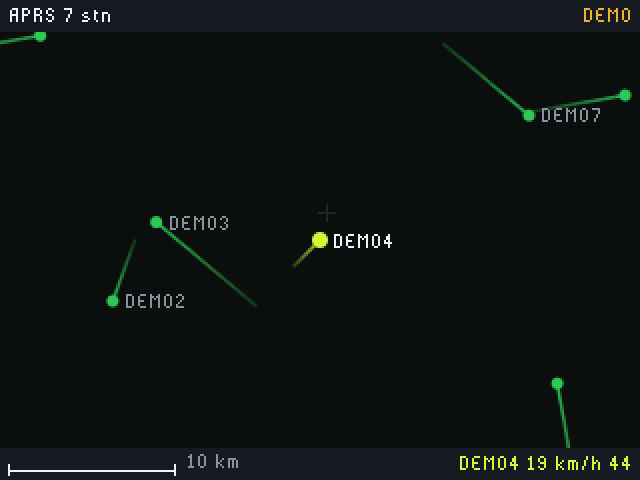
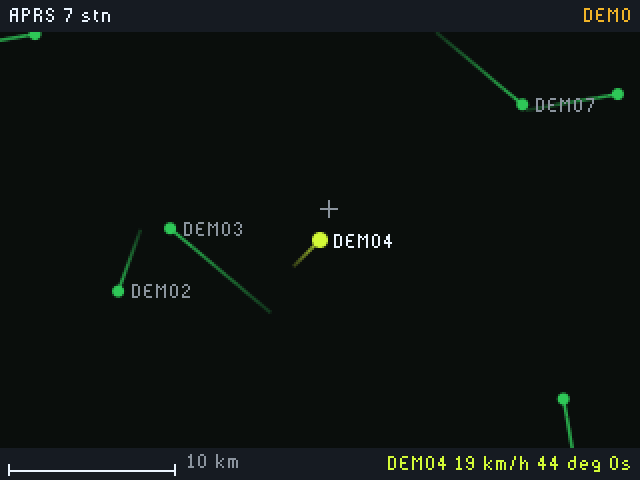
README: refresh screenshots and status after app reviews

diff --git a/README.md b/README.md
@@ -9,17 +9,17 @@ None of this has run on a real badge yet. Everything below passes static checks 
 | App | What it does | Needs network | Status |
 | --- | --- | --- | --- |
 | [`tilt_maze`](badge/apps/tilt_maze/) | Roll a marble through a random maze with the accelerometer. 4 sizes, best times saved. | no | maze generator tested on host, tilt axes unconfirmed |
-| [`ir_tag`](badge/apps/ir_tag/) | Fire IR shots at other badges. A hit badge sends a confirmation back. | no | IR send API is a guess |
+| [`ir_tag`](badge/apps/ir_tag/) | Fire IR shots at other badges. A hit badge sends a confirmation back. | no | sender call fixed to the real `aye_arr` API, untested |
 | [`gh_dash`](badge/apps/gh_dash/) | Review requests, open PRs, assigned issues, latest CI result for up to 3 repos. | Wi-Fi + GitHub token | demo mode works, live calls untested |
 | [`aprs_map`](badge/apps/aprs_map/) | Live map of APRS stations near a place you choose, with fading trails. Receive only. | Wi-Fi | parser tested on host and against the live feed |
 | [`overhead`](badge/apps/overhead/) | Aircraft near you: callsign, type, altitude, speed, origin and destination, arriving or departing. List and radar views. | Wi-Fi | parser tested on saved real responses |
-| [`meshcore_feed`](badge/apps/meshcore_feed/) | MeshCore messages and contacts from your own BLE companion node. | BLE | prototype, about 25% odds the badge can pair |
+| [`meshcore_feed`](badge/apps/meshcore_feed/) | MeshCore messages and contacts from your own BLE companion node. | BLE | prototype, about 3% odds live mode can pair, demo mode works |
 
 `validate_app.py` and the README check pass for all six. The `editor/` folder holds single-file copies you can paste into the [browser editor](https://badger.github.io/editor) plus host-side tests. In the simulator the accelerometer is a stub (use the d-pad for `tilt_maze`), and there is no IR, network or BLE, so the other apps run on demo data.
 
 ## Screenshots
 
-Captured from the [badge simulator](https://badger.github.io/editor) running each app in headless Chrome, not from a real badge. Frames are the simulator's screen, doubled in size. The simulator has no real accelerometer, IR, sockets or network, so `tilt_maze` was rolled with the d-pad, `ir_tag` shows its simulator controls, and `aprs_map`, `gh_dash` and `overhead` show demo data (the `overhead` captures use `PLANES_DEMO`). `meshcore_feed` is its demo mode.
+Captured from the [badge simulator](https://badger.github.io/editor) running each app in headless Chrome, not from a real badge. Frames are the simulator's screen, doubled in size. The simulator has no real accelerometer, IR, sockets or network, so `tilt_maze` was rolled with the d-pad, `ir_tag` shows its simulator controls, and `aprs_map`, `gh_dash` and `overhead` show demo data (the `overhead` captures use `PLANES_DEMO`). `meshcore_feed` is its demo mode, and the captured start screen shows the warning that live mode probably fails.
 
 **tilt_maze**: start, then rolling toward the gold tile
 
@@ -83,16 +83,16 @@ Wi-Fi and your GitHub username can be set in the badge's Settings app. Everythin
 
 ## Things I'm checking on hardware
 
-- **IR send API.** The repo only shows the receiver. `ir_tag` assumes `NECSender(16, 1)` with `send_addr_cmd(addr, cmd)`, copied from the 2025 beacon code. Check with `import aye_arr.nec as n; print(dir(n))`. Without a working sender the app runs receive only and says so.
+- **IR library version.** `ir_tag` uses the real [`pimoroni/aye_arr`](https://github.com/pimoroni/aye_arr) API (`NECSender(pin, pio, sm)` then `.start()`, receiver via `NECRemoteReceiver` or `NECReceiver`), checked against its source but not on a badge. In `aye_arr` 1.0.x the descriptor style Quest uses moved to `NECRemoteReceiver`, so check which version the firmware ships with `import aye_arr.nec as n; print(dir(n))`. Without a working sender the app runs receive only and says so.
 - **Tilt direction.** Axis mapping is copied from the stock Badge app. If the ball rolls backwards, flip a sign in `Tilt.read()`.
-- **BLE pairing.** MeshCore needs a bonded, encrypted link with a PIN. MicroPython only documents that on NimBLE, and the badge probably uses BTstack. If `ble.config(bond=True, ...)` raises, the live mode is dead. See [`editor/meshcore-feasibility.md`](editor/meshcore-feasibility.md) for sources.
+- **BLE pairing.** MeshCore needs a bonded, encrypted link with a PIN. MicroPython only supports that on NimBLE, and the badge probably uses BTstack, so live mode most likely cannot pair (review estimate: about 3%). Demo mode works. A Wi-Fi companion node over TCP would avoid pairing. See [`editor/meshcore-feasibility.md`](editor/meshcore-feasibility.md) for sources.
 - **Sockets and RAM.** `aprs_map` connects over a raw TCP socket (the first connect can block a few seconds). `overhead` parses 40 KB or more of JSON. Lower `PLANES_RADIUS_NM` if it runs out of memory.
 - **Screen layout.** Text widths and column positions are guessed and checked only against stub globals.
 
 ## Data sources and limits
 
 - **APRS:** the [APRS-IS](https://www.aprs-is.net/) network via `rotate.aprs2.net:14580`, with a server-side range filter and a receive-only login (passcode `-1`). The app never transmits. I skipped the aprs.fi API because it can't search by area and its terms forbid pre-caching.
-- **Aircraft positions:** [adsb.lol](https://api.adsb.lol), open data under the [ODbL 1.0](https://opendatacommons.org/licenses/odbl/1-0/). No key today, but they say one may be required later. It returned a rate-limit header that might mean 500 requests per day per address, which one request every 12 s would use up in about 100 minutes. If `overhead` starts showing HTTP errors, raise `REFRESH_MS`.
+- **Aircraft positions:** [adsb.lol](https://api.adsb.lol), open data under the [ODbL 1.0](https://opendatacommons.org/licenses/odbl/1-0/). No key today, but they say one may be required later. It returned a rate-limit header that might mean 500 requests per day per address, so `overhead` refreshes every 2 minutes (about 240 requests in 8 hours). The header is unofficial. Venue Wi-Fi shares one IP, so the cap could still be hit. If `overhead` starts showing HTTP errors, raise `REFRESH_MS`.
 - **Aircraft routes:** [adsbdb](https://www.adsbdb.com), looked up by callsign and cached. Callsigns get reused, so arriving and departing is a good guess, not a fact. How the app decides is in [`badge/apps/overhead/README.md`](badge/apps/overhead/README.md).
 - **MeshCore:** the documented companion protocol from [meshcore-dev](https://github.com/meshcore-dev). Live mode can send a real message on your mesh when you pick a canned reply.
 
